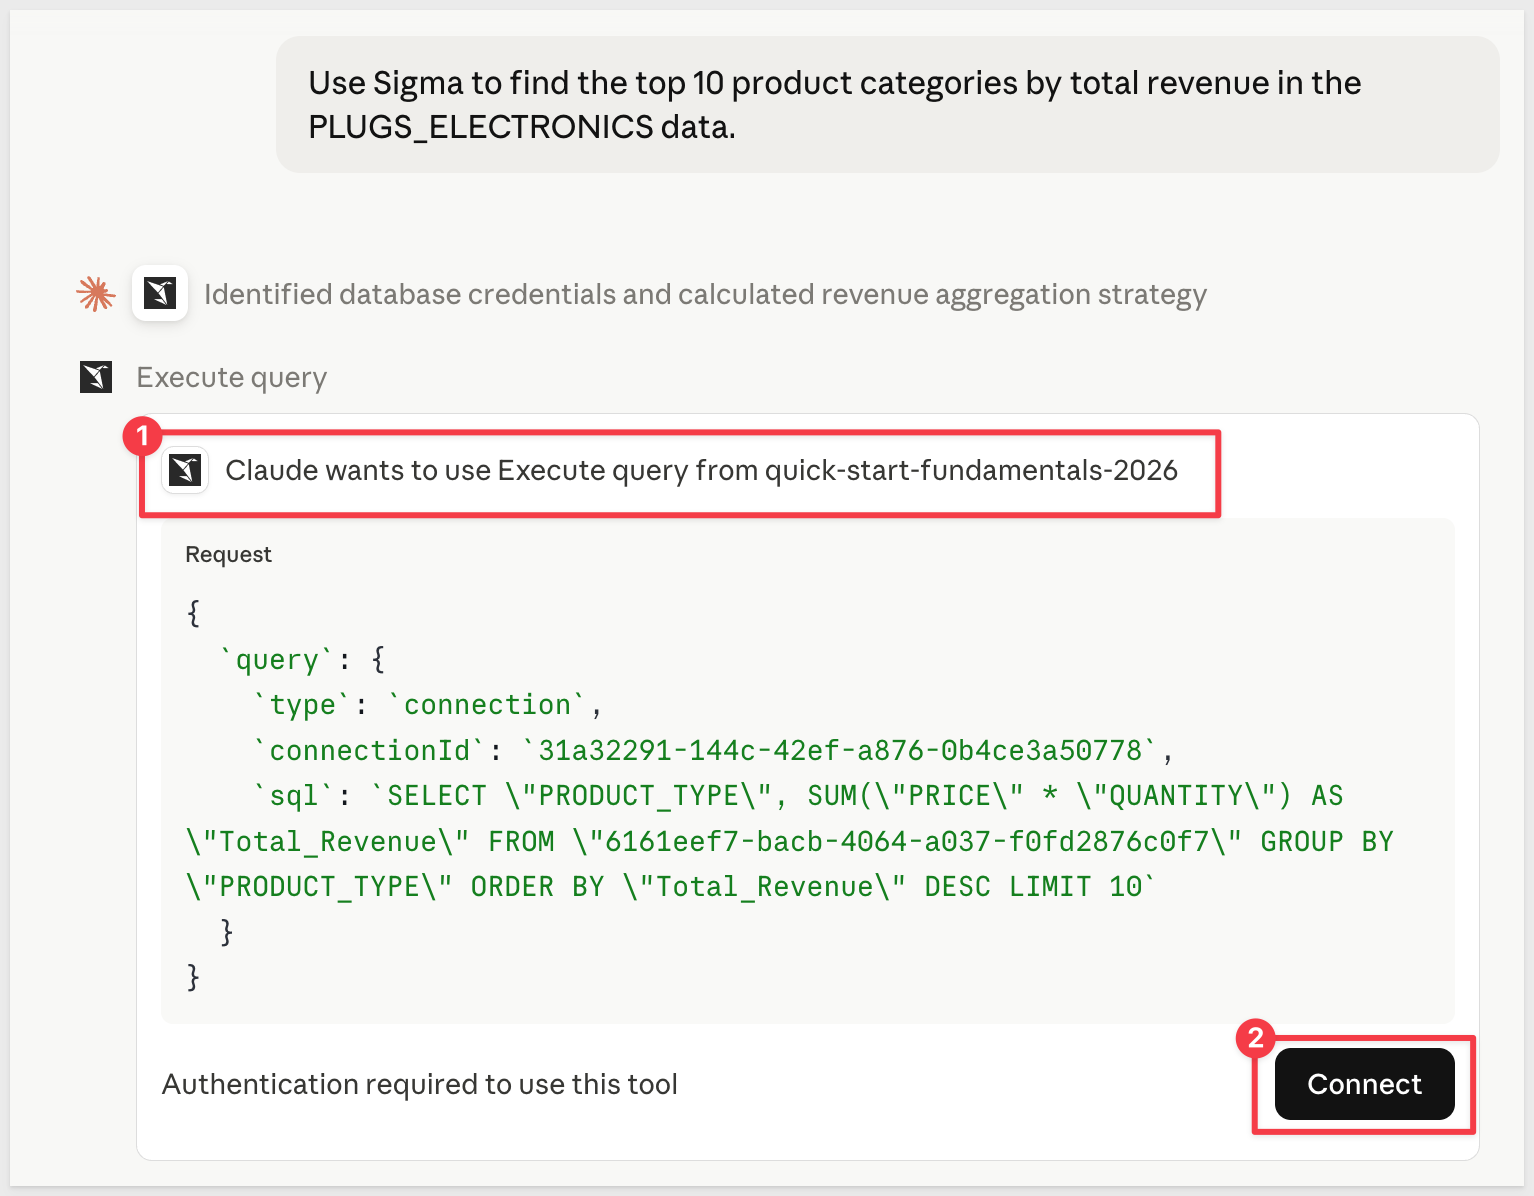
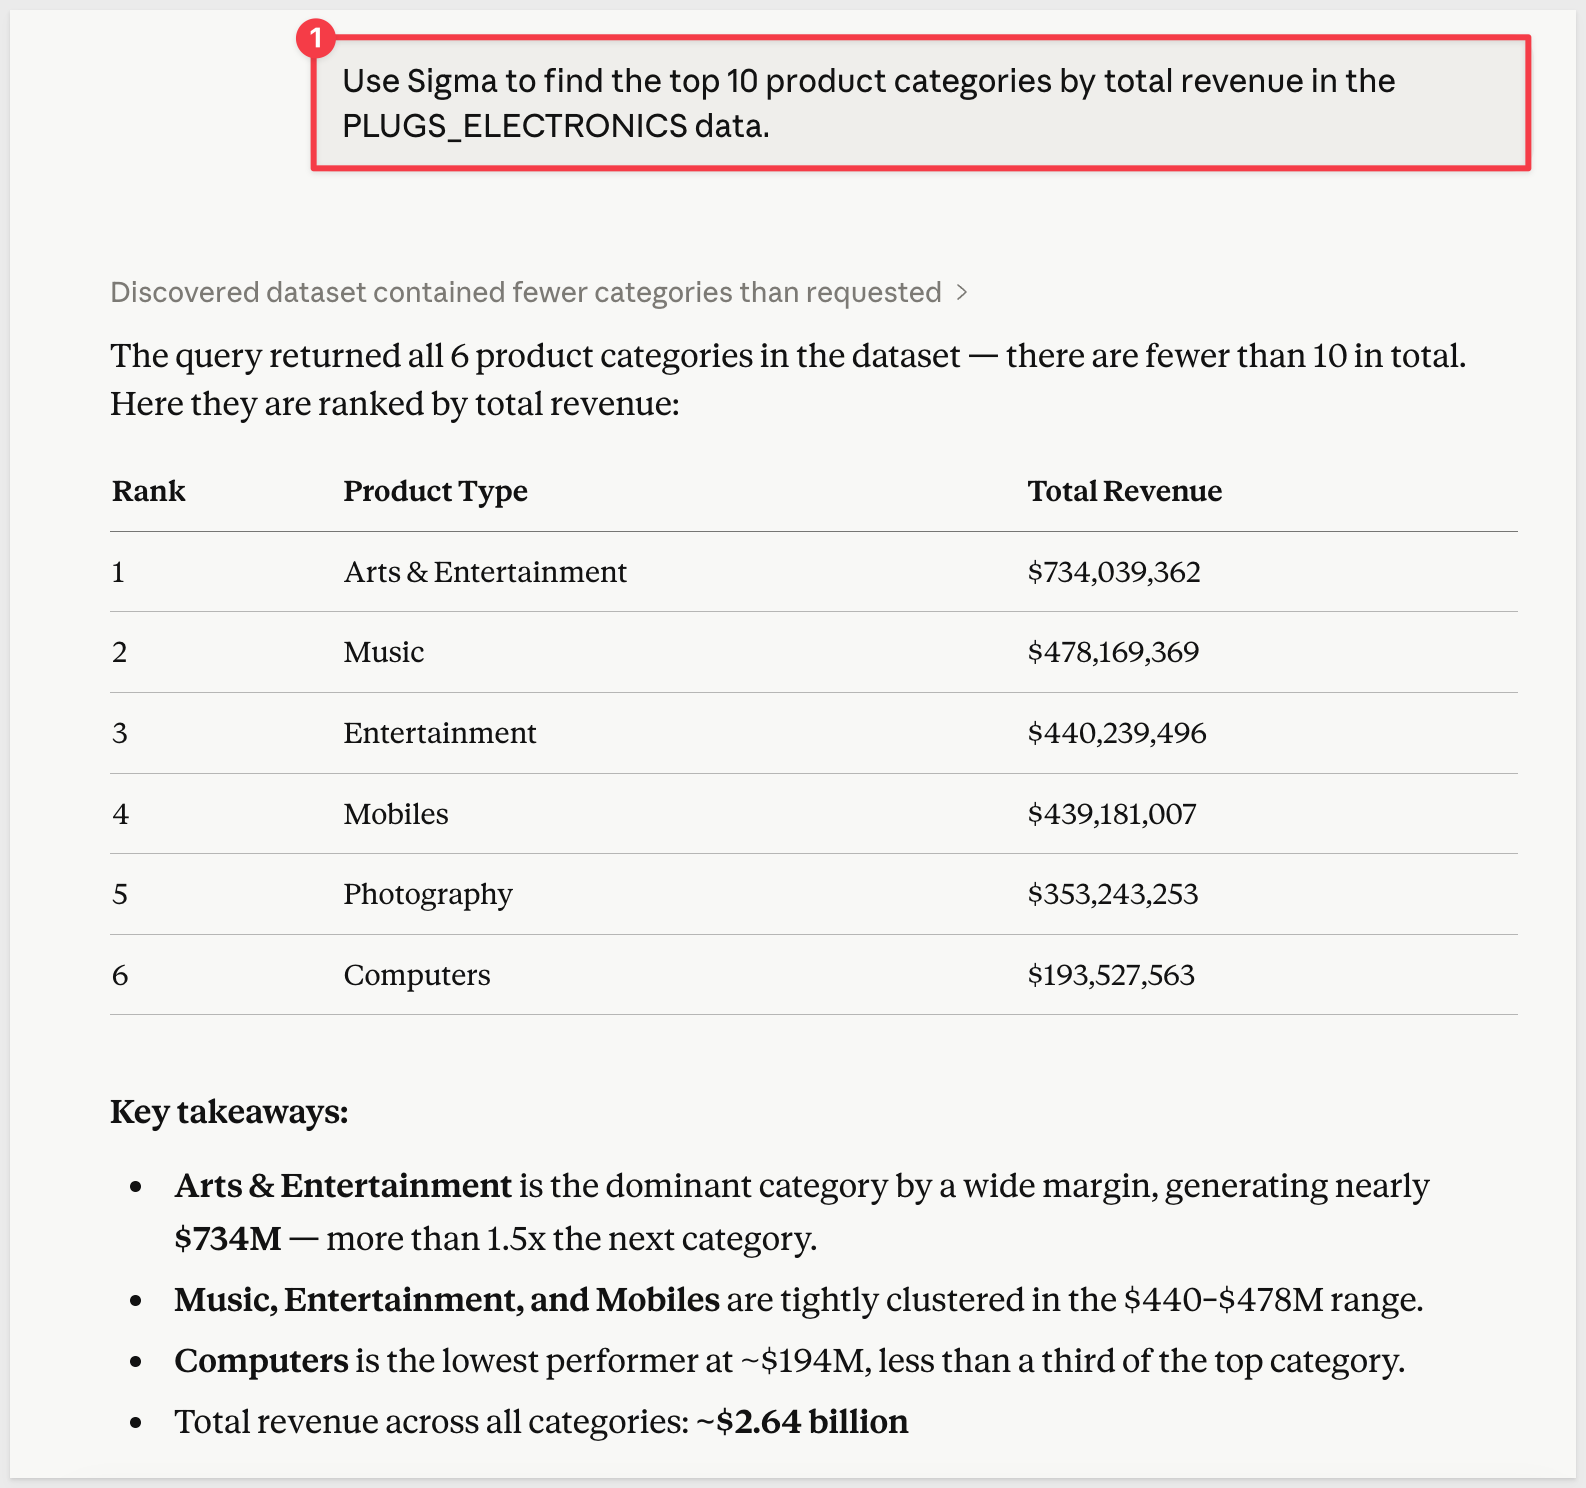
add-select-source

Changed region(s): [[0.0, 0.1856, 1.0, 1.0], [0.1838, 0.0, 0.9804, 0.1237]]

diff --git a/site/sigmaguides/src/aiapps_natural_language_with_claude/aiapps_natural_language_with_claude.md b/site/sigmaguides/src/aiapps_natural_language_with_claude/aiapps_natural_language_with_claude.md
@@ -6,7 +6,7 @@ environments: web
 status: Published
 feedback link: https://github.com/sigmacomputing/sigmaquickstarts/issues
 tags: Default
-lastUpdated: 2026-05-14
+lastUpdated: 2026-06-14
 
 # Natural Language Analytics with Claude and Sigma
 
@@ -325,9 +325,7 @@ With relevant data sources identified and their structure understood, you can as
 Use Sigma to find the top 10 product categories by total revenue in the PLUGS_ELECTRONICS data.
 ```
 
-Claude will locate the relevant table, identify the appropriate columns, generate a query, and return the results — along with an explanation of what it found and how.
-
-If the connector session has expired or you haven't yet allowed Claude to execute SQL, you'll see a prompt to reauthenticate before results are returned:
+Claude will locate the relevant table, identify the appropriate columns, generate a query, and return the results — along with an explanation of what it found and how:
 
 <img src="assets/nlac-26.png" width="600"/>
 
@@ -339,11 +337,7 @@ Claude retains conversation context, so you can ask follow-up questions without 
 Now break that down by month. Which categories grew the most between Q1 and Q2?
 ```
 
-or:
-
-```copy-code
-Which of those top 10 categories had the highest return rate?
-```
+<img src="assets/nlac-27.png" width="600"/>
 
 Each follow-up refines or extends the prior analysis.
 
@@ -353,16 +347,12 @@ Each follow-up refines or extends the prior analysis.
 Use Sigma to compare average order value between online and in-store sales channels.
 ```
 
-or:
-
-```copy-code
-Which customer segment generates the most revenue? Show me the top 5.
-```
+<img src="assets/nlac-28.png" width="600"/>
 
 The value here is in the workflow. Instead of switching between Claude and Sigma to answer a data question, you stay in one place. Claude handles the discovery and query work, and you get answers grounded in your actual, live Sigma data — not a training dataset or a cached snapshot.
 
-<aside class="negative">
-<strong>NOTE:</strong><br> Results reflect data accessible to your Sigma account. If you do not have permission to access a specific connection, table, or document, the connector will not be able to query it. The connector also does not currently support queries using custom window frames, ordered window aggregates, or dynamic intervals.
+<aside class="positive">
+<strong>IMPORTANT:</strong><br> Results reflect data accessible to your Sigma account. If you do not have permission to access a specific connection, table, or document, the connector will not be able to query it.
 </aside>
 
 ![Footer](assets/sigma_footer.png)
@@ -377,7 +367,7 @@ The setup involves three things done once: connecting the MCP connector, configu
 
 The Project instructions are what make this durable over time. A well-configured Project turns Claude from a general-purpose assistant into one that already understands your organization — which tables are authoritative, how your team defines key metrics, and how you prefer to see results. That context compounds as you refine it.
 
-The techniques covered here apply to any Sigma environment, not just the PLUGS_ELECTRONICS sample data used in the examples. The prompts are reusable; the only thing that changes is the data source names.
+The techniques covered here apply to any Sigma environment, not just the `PLUGS_ELECTRONICS` sample data used in the examples. The prompts are reusable; the only thing that changes is the data source names.
 
 **Additional Resource Links**
 

diff --git a/site/sigmaguides/src/Fundamentals 1: Getting Around - v3/Fundamentals 1: Getting Around v3.md b/site/sigmaguides/src/Fundamentals 1: Getting Around - v3/Fundamentals 1: Getting Around v3.md
@@ -6,7 +6,7 @@ status: Published
 feedback link: https://github.com/sigmacomputing/sigmaquickstarts/issues
 tags: default
 authors: phil@sigmacomputing.com
-lastUpdated: 2026-04-15
+lastUpdated: 2026-05-15
 
 # Fundamentals 01: Overview
 <!-- -->
@@ -425,6 +425,12 @@ Now let's ask a focused business question:
 The CEO wants to know the bottom ten stores in the chain.
 ```
 
+Before submitting, click the `+` button in the input area to select a specific data source. This scopes the query to a particular table and avoids ambiguity when multiple data sources are available:
+
+<img src="assets/fun_2026_62.png" width="800"/>
+
+Select `PLUGS_ELECTRONICS_HANDS_ON_LAB_DATA` and submit the question.
+
 Sigma Assistant explains what it's doing at each step and why. For those who need to see it, the SQL query used is shown:
 
 <img src="assets/fun_2026_07.png" width="800"/>
@@ -530,7 +536,7 @@ The Sigma MCP Server is available to all Sigma customers today as a custom conne
 
 To connect it to Claude:
 
-1. In Sigma, click your profile icon and navigate to the section and copy your personal MCP server URL:
+1. In Sigma, click your profile icon and navigate to `Profile` > `MCP` and copy your personal MCP server URL:
 
 <img src="assets/fun_2026_51.png" width="800"/>
 
@@ -590,6 +596,8 @@ For teams that already work in AI-assisted environments, this means Sigma data b
 
 
 For full setup instructions, see [Use the Sigma MCP Server](https://help.sigmacomputing.com/docs/use-sigma-mcp-server)
+
+For a hands-on walkthrough — including how to configure a Claude Project with org-specific context, search your Sigma environment, and run natural language queries against live data — see [Natural Language Analytics with Claude and Sigma](https://quickstarts.sigmacomputing.com/guide/aiapps_natural_language_with_claude/index.html).
 
 ![Footer](assets/sigma_footer.png)
 <!-- END OF SECTION-->
